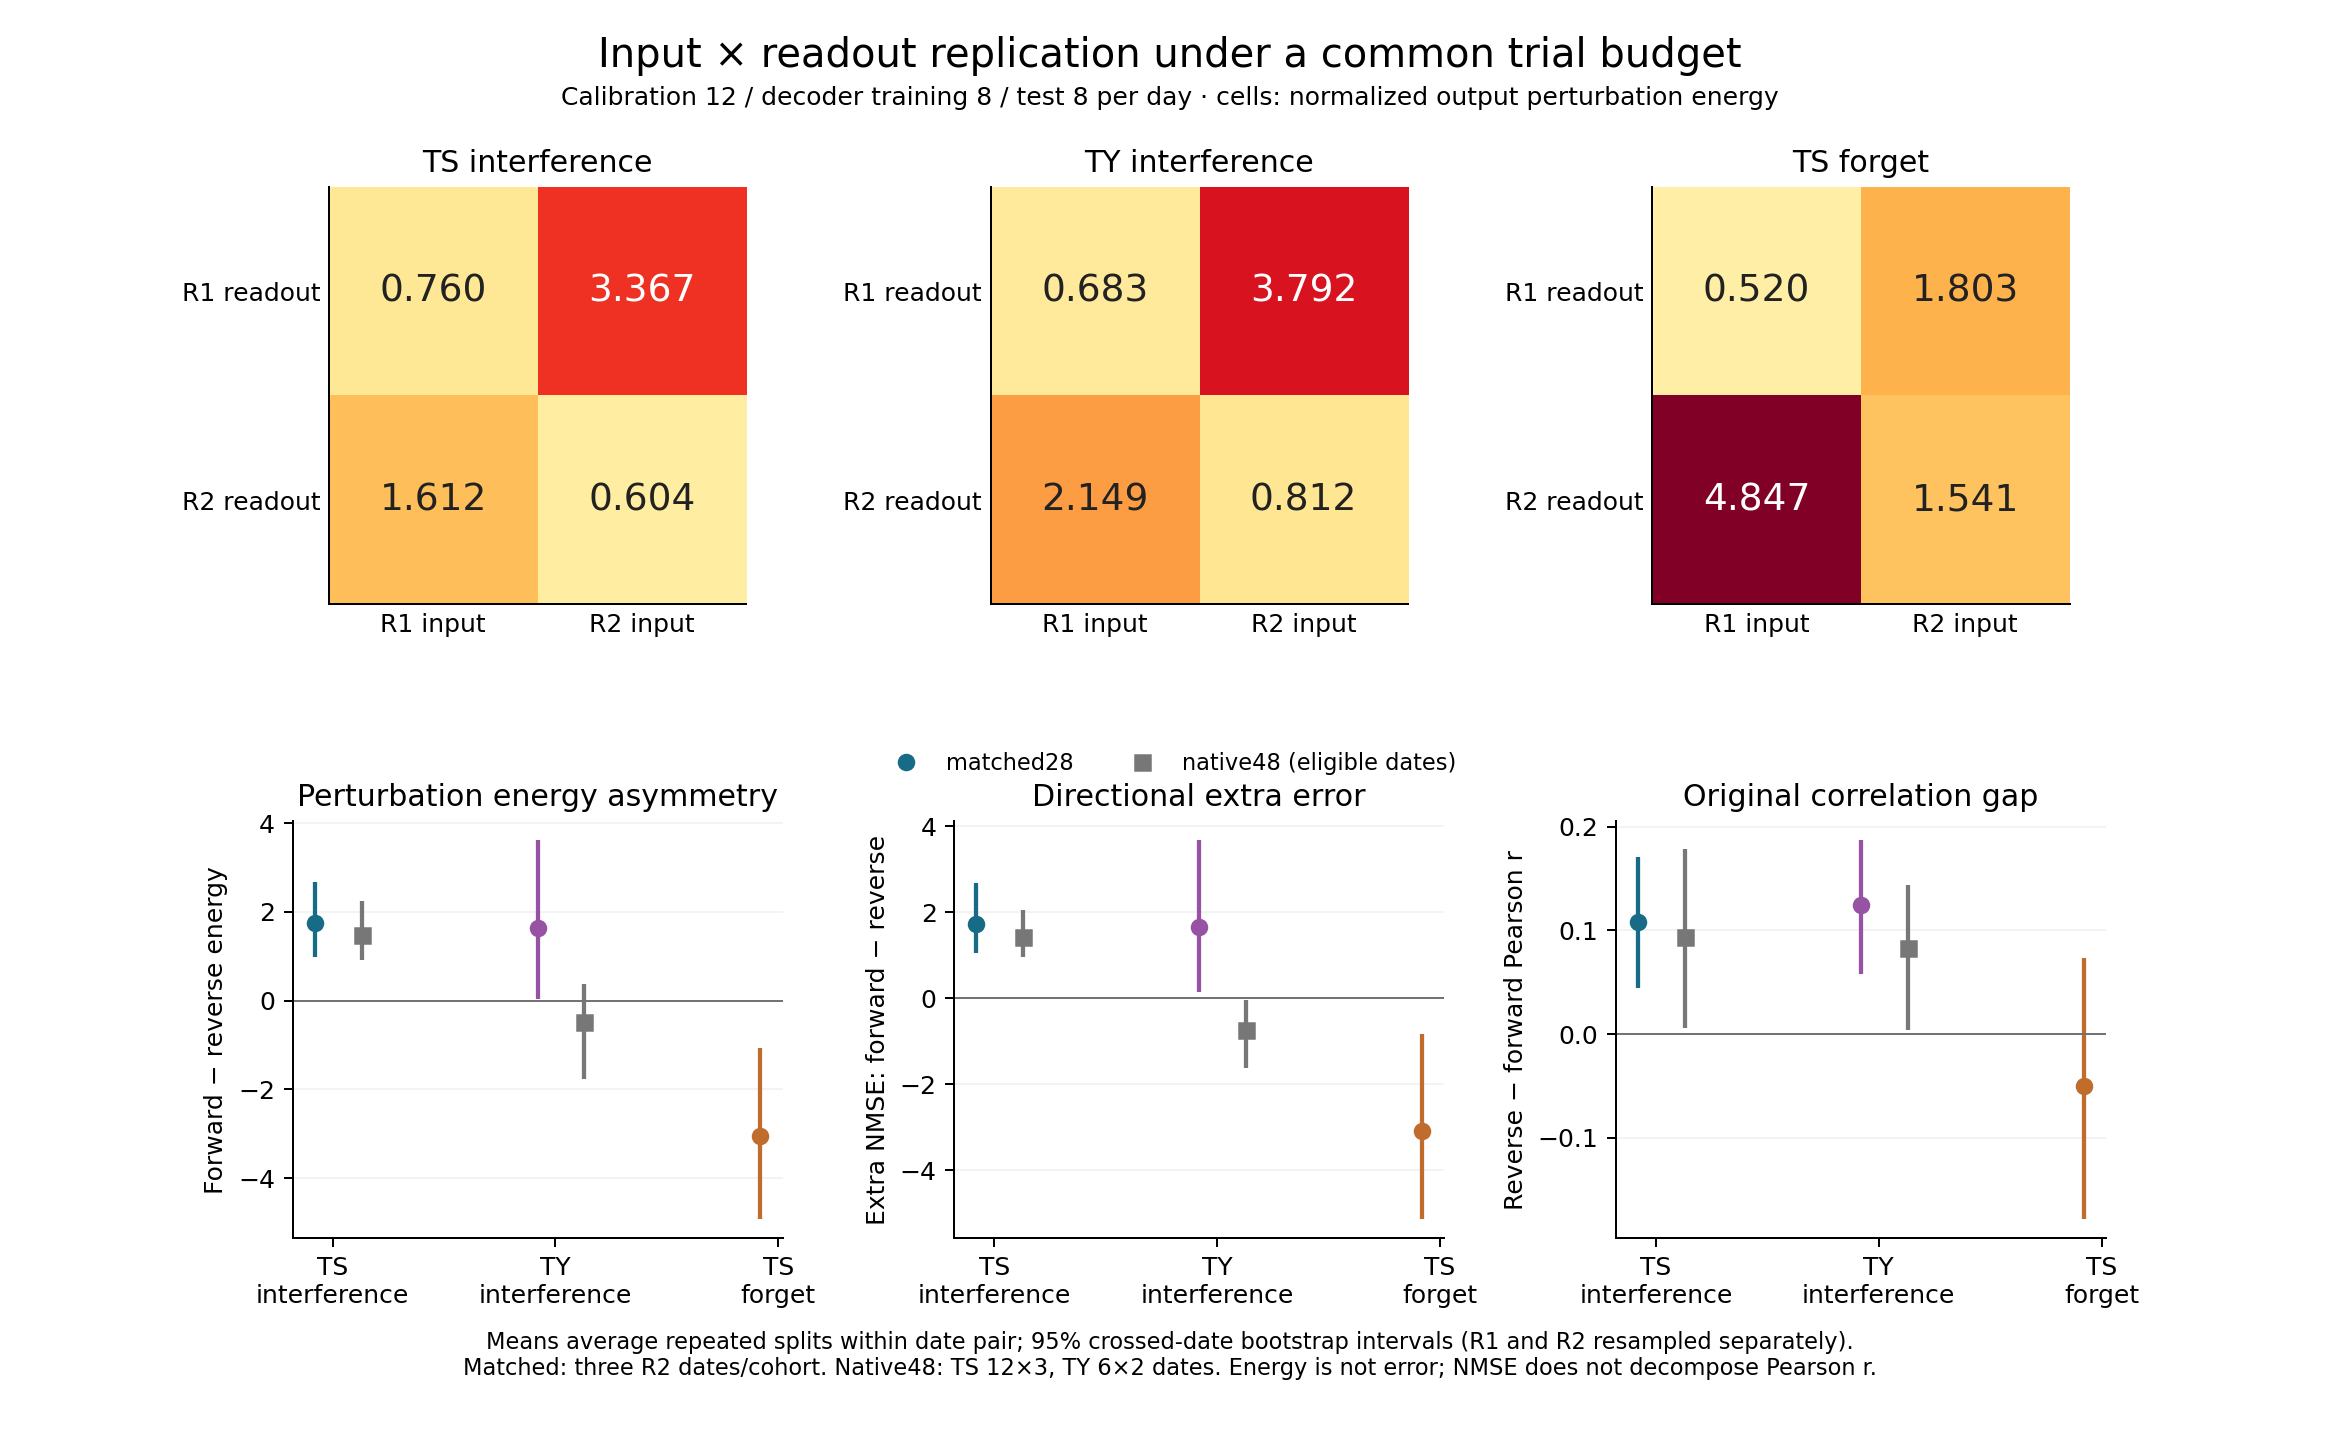
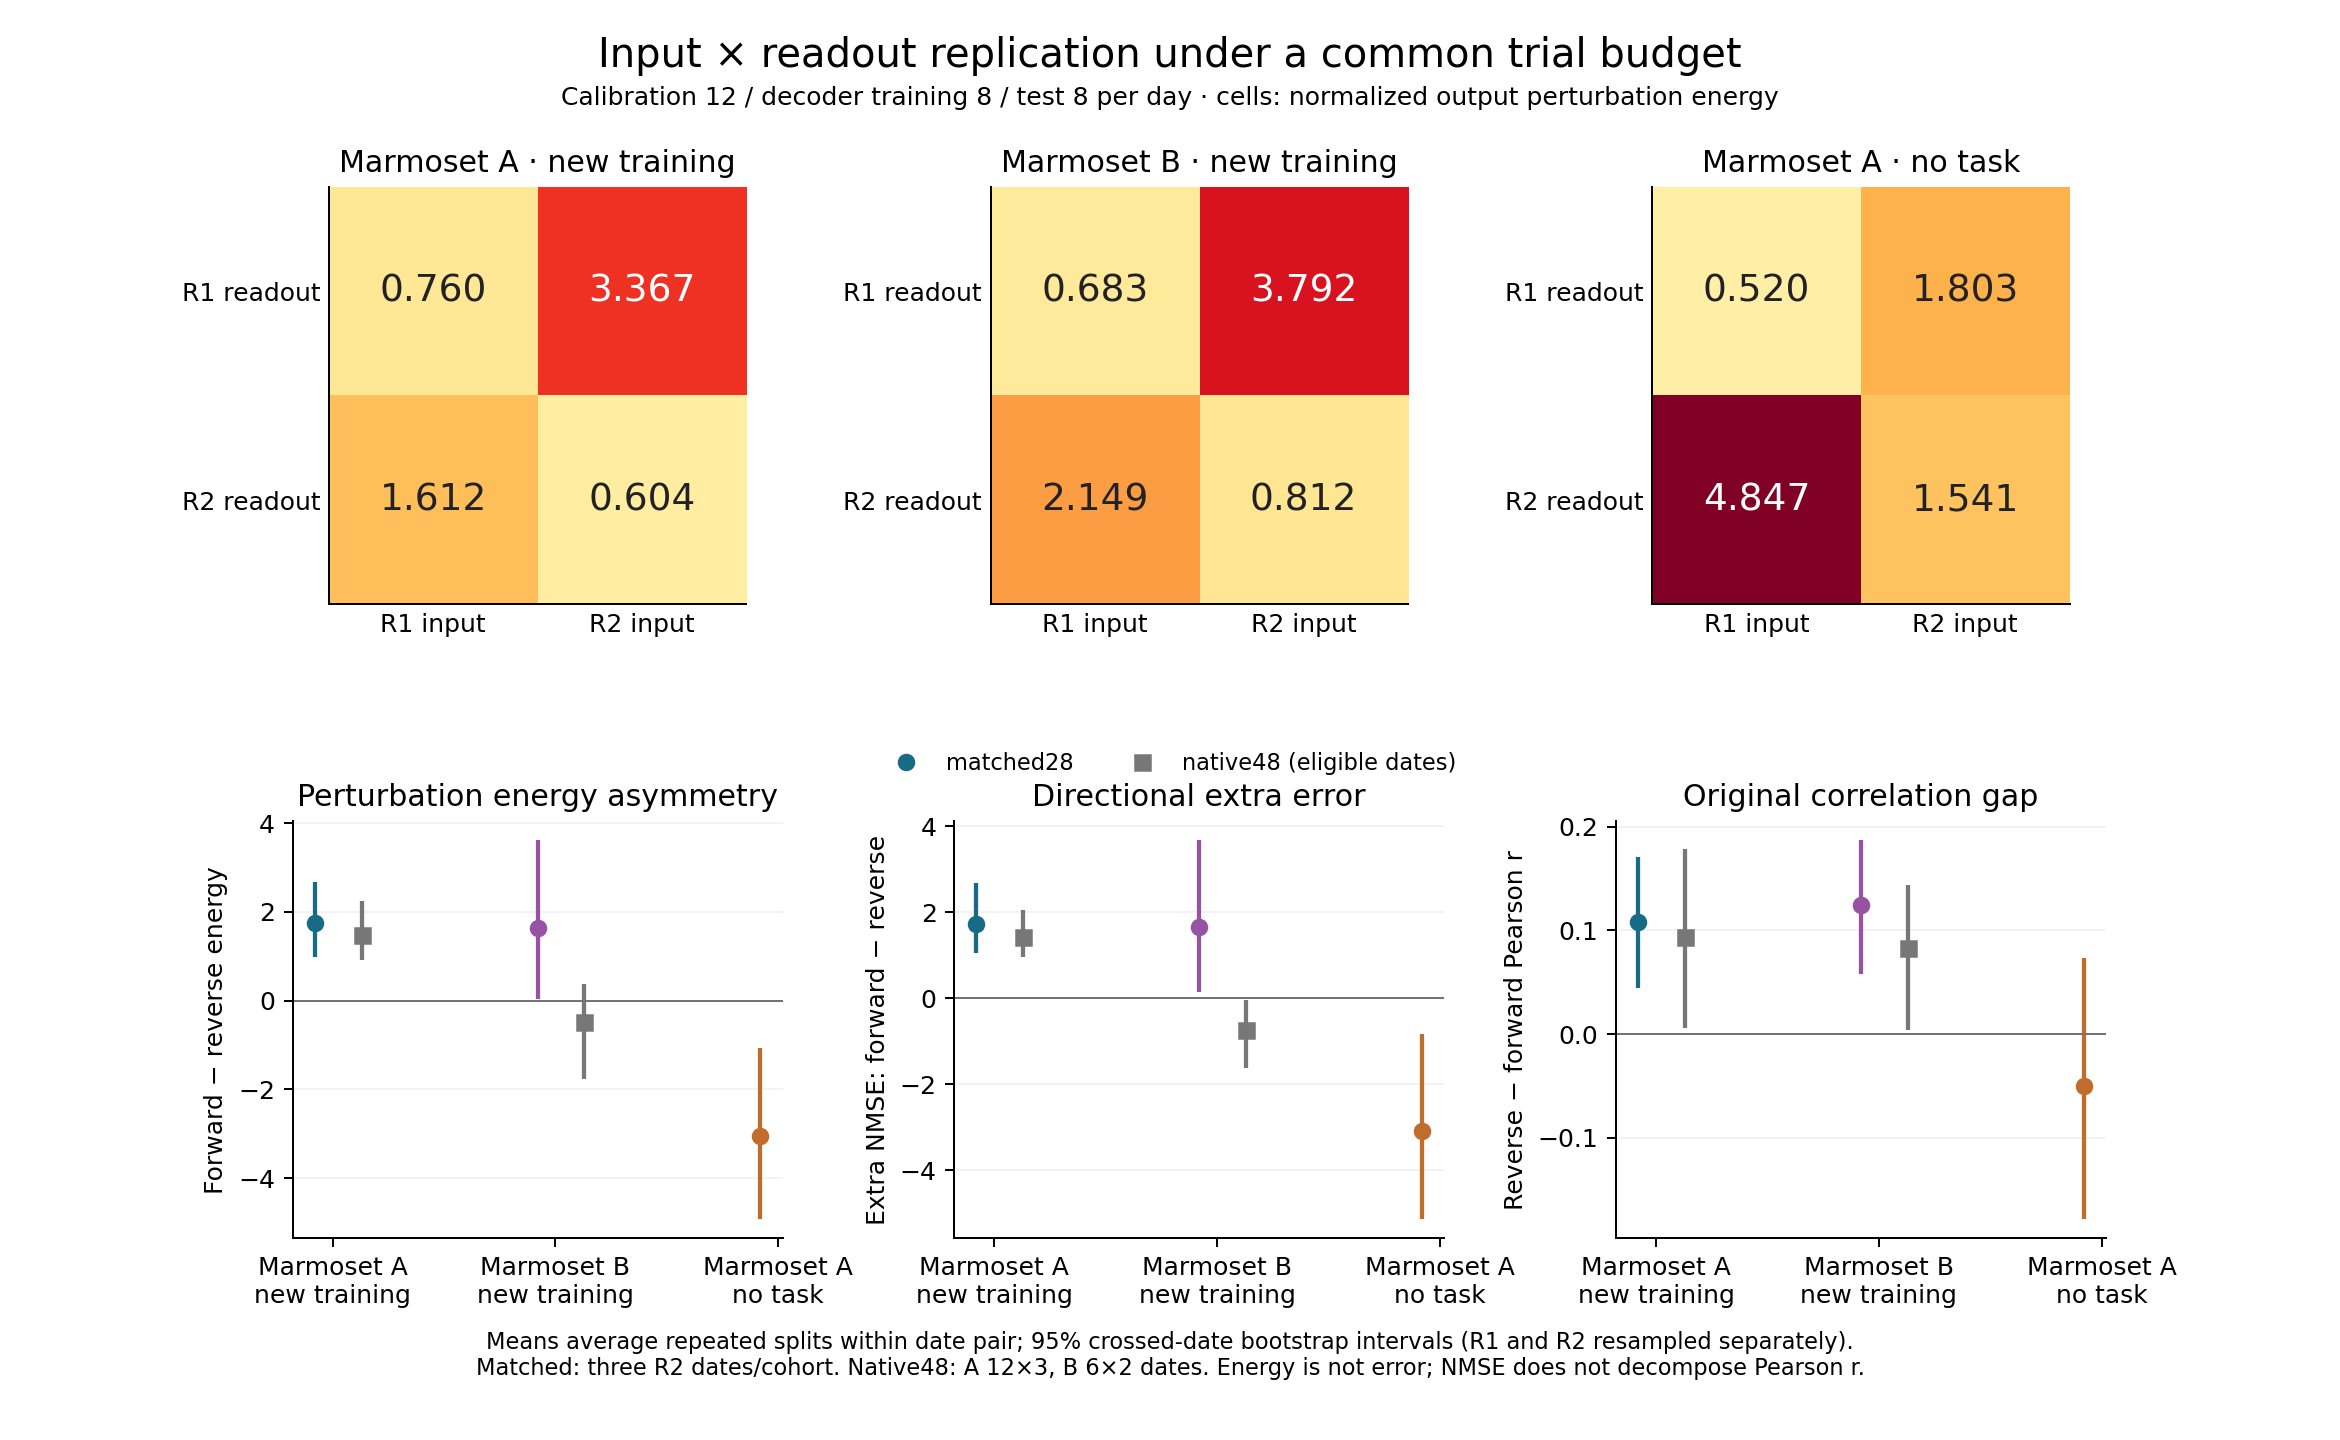
Research page: no real session dates or animal IDs (#14)
R2 session dates become R2 day 1-3 and animals TS/TY become marmosets A/B, in the
page text, the interactive figures and the two original figures. The figures are
redrawn from the same committed tables with the same plotting code (identical
pixel for pixel when drawn with the old labels); every number is unchanged.

diff --git a/frontend/content/marmosetPairs.ts b/frontend/content/marmosetPairs.ts
@@ -1,5 +1,5 @@
 // Per-pair decoding correlations from the historical full-reach analysis.
 // Source: howardbot/Marmoset_Decoding_Public, Results/current/comparisons/interference_vs_forget/tables/paired_directional_cells.csv
-// Each entry: [forward r (R1→R2), reverse r (R2→R1), R2 date].
-export const PAIRED_INTERFERENCE: [number, number, string][] = [[0.2882, 0.5267, "20250828"], [0.3004, 0.4811, "20250829"], [0.1763, 0.3966, "20250830"], [0.349, 0.537, "20250828"], [0.3307, 0.5829, "20250829"], [0.2974, 0.5119, "20250830"], [0.4086, 0.4922, "20250828"], [0.4862, 0.5185, "20250829"], [0.4074, 0.4292, "20250830"], [0.3574, 0.5251, "20250828"], [0.364, 0.5174, "20250829"], [0.2845, 0.4423, "20250830"], [0.3521, 0.5011, "20250828"], [0.3803, 0.5525, "20250829"], [0.3095, 0.512, "20250830"], [0.3999, 0.5114, "20250828"], [0.4544, 0.5359, "20250829"], [0.4382, 0.4596, "20250830"], [0.3733, 0.5079, "20250828"], [0.3933, 0.5616, "20250829"], [0.3783, 0.471, "20250830"], [0.4122, 0.4087, "20250828"], [0.4391, 0.5172, "20250829"], [0.3789, 0.4102, "20250830"], [0.4207, 0.5235, "20250828"], [0.4671, 0.5398, "20250829"], [0.4559, 0.4989, "20250830"], [0.3728, 0.482, "20250828"], [0.4432, 0.5555, "20250829"], [0.4008, 0.4821, "20250830"], [0.365, 0.5048, "20250828"], [0.4551, 0.5198, "20250829"], [0.3973, 0.4307, "20250830"], [0.3911, 0.5042, "20250828"], [0.4603, 0.5292, "20250829"], [0.4796, 0.4948, "20250830"], [0.4013, 0.5122, "20250828"], [0.4773, 0.5467, "20250829"], [0.4754, 0.5393, "20250830"], [0.419, 0.416, "20250828"], [0.4896, 0.4537, "20250829"], [0.4365, 0.3833, "20250830"]];
-export const PAIRED_FORGET: [number, number, string][] = [[0.4888, 0.4445, "20260626"], [0.4354, 0.4579, "20260627"], [0.4241, 0.6274, "20260628"], [0.463, 0.3971, "20260626"], [0.4697, 0.4933, "20260627"], [0.4119, 0.6029, "20260628"], [0.4477, 0.3548, "20260626"], [0.4945, 0.4446, "20260627"], [0.4793, 0.5626, "20260628"]];
+// Each entry: [forward r (R1→R2), reverse r (R2→R1), R2 day (1–3)]. Real session dates are left out.
+export const PAIRED_INTERFERENCE: [number, number, number][] = [[0.2882, 0.5267, 1], [0.3004, 0.4811, 2], [0.1763, 0.3966, 3], [0.349, 0.537, 1], [0.3307, 0.5829, 2], [0.2974, 0.5119, 3], [0.4086, 0.4922, 1], [0.4862, 0.5185, 2], [0.4074, 0.4292, 3], [0.3574, 0.5251, 1], [0.364, 0.5174, 2], [0.2845, 0.4423, 3], [0.3521, 0.5011, 1], [0.3803, 0.5525, 2], [0.3095, 0.512, 3], [0.3999, 0.5114, 1], [0.4544, 0.5359, 2], [0.4382, 0.4596, 3], [0.3733, 0.5079, 1], [0.3933, 0.5616, 2], [0.3783, 0.471, 3], [0.4122, 0.4087, 1], [0.4391, 0.5172, 2], [0.3789, 0.4102, 3], [0.4207, 0.5235, 1], [0.4671, 0.5398, 2], [0.4559, 0.4989, 3], [0.3728, 0.482, 1], [0.4432, 0.5555, 2], [0.4008, 0.4821, 3], [0.365, 0.5048, 1], [0.4551, 0.5198, 2], [0.3973, 0.4307, 3], [0.3911, 0.5042, 1], [0.4603, 0.5292, 2], [0.4796, 0.4948, 3], [0.4013, 0.5122, 1], [0.4773, 0.5467, 2], [0.4754, 0.5393, 3], [0.419, 0.416, 1], [0.4896, 0.4537, 2], [0.4365, 0.3833, 3]];
+export const PAIRED_FORGET: [number, number, number][] = [[0.4888, 0.4445, 1], [0.4354, 0.4579, 2], [0.4241, 0.6274, 3], [0.463, 0.3971, 1], [0.4697, 0.4933, 2], [0.4119, 0.6029, 3], [0.4477, 0.3548, 1], [0.4945, 0.4446, 2], [0.4793, 0.5626, 3]];

diff --git a/frontend/components/showcase/MarmosetFigures.tsx b/frontend/components/showcase/MarmosetFigures.tsx
@@ -39,9 +39,9 @@ export function CrossDayDesign() {
 // Correlation gap G = r(reverse) − r(forward), with 95% crossed-date intervals.
 // Source: Marmoset_Decoding_Public, HANDOFF.md, matched28 protocol (published snapshot).
 const GAP_ROWS = [
-  { label: "Animal TS — new training in between", g: 0.1085, lo: 0.0442, hi: 0.1711, colour: "#c2410c" },
-  { label: "Animal TY — new training (replication)", g: 0.1248, lo: 0.0583, hi: 0.1871, colour: "#c2410c" },
-  { label: "Animal TS — no task in between (control)", g: -0.0503, lo: -0.1789, hi: 0.0736, colour: "#71717a" },
+  { label: "Marmoset A — new training in between", g: 0.1085, lo: 0.0442, hi: 0.1711, colour: "#c2410c" },
+  { label: "Marmoset B — new training (replication)", g: 0.1248, lo: 0.0583, hi: 0.1871, colour: "#c2410c" },
+  { label: "Marmoset A — no task in between (control)", g: -0.0503, lo: -0.1789, hi: 0.0736, colour: "#71717a" },
 ];
 
 export function GapChart() {
@@ -79,7 +79,7 @@ export function GapChart() {
 }
 
 
-function SlopePanel({ pairs, title, colour, x0 }: { pairs: [number, number, string][]; title: string; colour: string; x0: number }) {
+function SlopePanel({ pairs, title, colour, x0 }: { pairs: [number, number, number][]; title: string; colour: string; x0: number }) {
   const top = 40;
   const bottom = 250;
   const lo = 0.15;
@@ -122,8 +122,8 @@ export function PairSlopes() {
         );
       })}
       <text x={10} y={145} textAnchor="middle" transform="rotate(-90 10 145)" className="fill-zinc-500 text-[10px]">accuracy (r)</text>
-      <SlopePanel pairs={PAIRED_INTERFERENCE} title="New training in between (TS)" colour="#2f5d9e" x0={30} />
-      <SlopePanel pairs={PAIRED_FORGET} title="No task in between (TS control)" colour="#2f5d9e" x0={310} />
+      <SlopePanel pairs={PAIRED_INTERFERENCE} title="New training in between (marmoset A)" colour="#2f5d9e" x0={30} />
+      <SlopePanel pairs={PAIRED_FORGET} title="No task in between (marmoset A, control)" colour="#2f5d9e" x0={310} />
     </svg>
   );
 }
@@ -132,9 +132,9 @@ export function PairSlopes() {
 // decoder's prediction away from a calibrated reference. Rows: decoder learned on; columns: activity from.
 // Source: Results/current/mechanism/directional_input_readout_replication/absolute_summary.csv
 const ENERGY = [
-  { title: "Animal TS · new training", cells: { R1_R1: 0.76, R1_R2: 3.367, R2_R1: 1.612, R2_R2: 0.604 } },
-  { title: "Animal TY · new training", cells: { R1_R1: 0.683, R1_R2: 3.792, R2_R1: 2.149, R2_R2: 0.812 } },
-  { title: "Animal TS · no task (control)", cells: { R1_R1: 0.52, R1_R2: 1.803, R2_R1: 4.847, R2_R2: 1.541 } },
+  { title: "Marmoset A · new training", cells: { R1_R1: 0.76, R1_R2: 3.367, R2_R1: 1.612, R2_R2: 0.604 } },
+  { title: "Marmoset B · new training", cells: { R1_R1: 0.683, R1_R2: 3.792, R2_R1: 2.149, R2_R2: 0.812 } },
+  { title: "Marmoset A · no task (control)", cells: { R1_R1: 0.52, R1_R2: 1.803, R2_R1: 4.847, R2_R2: 1.541 } },
 ];
 
 function shadeRgb(v: number): [number, number, number] {

diff --git a/frontend/app/research/cross-day-decoding/page.tsx b/frontend/app/research/cross-day-decoding/page.tsx
@@ -75,7 +75,7 @@ export default function CrossDayDecoding() {
         </p>
       </Section>
 
-      <Figure label="Experimental design" caption="Two animals (TS and TY) trained on a second task between the recording blocks; one animal (TS) also repeated the design later with no task in between, as a control.">
+      <Figure label="Experimental design" caption="Two animals (marmosets A and B) trained on a second task between the recording blocks; one of them (A) also repeated the design later with no task in between, as a control.">
         <CrossDayDesign />
       </Figure>
 
@@ -134,7 +134,7 @@ export default function CrossDayDecoding() {
         caption={
           <>
             Gap = accuracy (reverse) − accuracy (forward); dots are estimates and bars are 95% intervals across pairs of recording days,
-            using a common 28-trial-per-day protocol. Day pairs: TS 14 × 3, TY 11 × 3, control 3 × 3. Source:{" "}
+            using a common 28-trial-per-day protocol. Day pairs: marmoset A 14 × 3, marmoset B 11 × 3, control 3 × 3. Source:{" "}
             <a className="underline" href={`${REPO}/blob/main/HANDOFF.md`}>public results handoff</a>.
           </>
         }
@@ -174,7 +174,7 @@ export default function CrossDayDecoding() {
         <Callout title="Why I call this a lead, not a discovery" tone="caution">
           Each animal has only three recording days after the in-between period, and day pairs share days, so they are not independent
           replicates. The control was recorded in a different year from the main experiment. One alternative, error-based analysis in
-          animal TY points the other way, and in animal TS the gap disappears when only the last three &ldquo;before&rdquo; days are used. Many analyses were
+          marmoset B points the other way, and in marmoset A the gap disappears when only the last three &ldquo;before&rdquo; days are used. Many analyses were
           run on the same data. The honest summary is a reproducible pattern worth testing on new recordings with a pre-registered
           analysis — not an established mechanism.
         </Callout>
